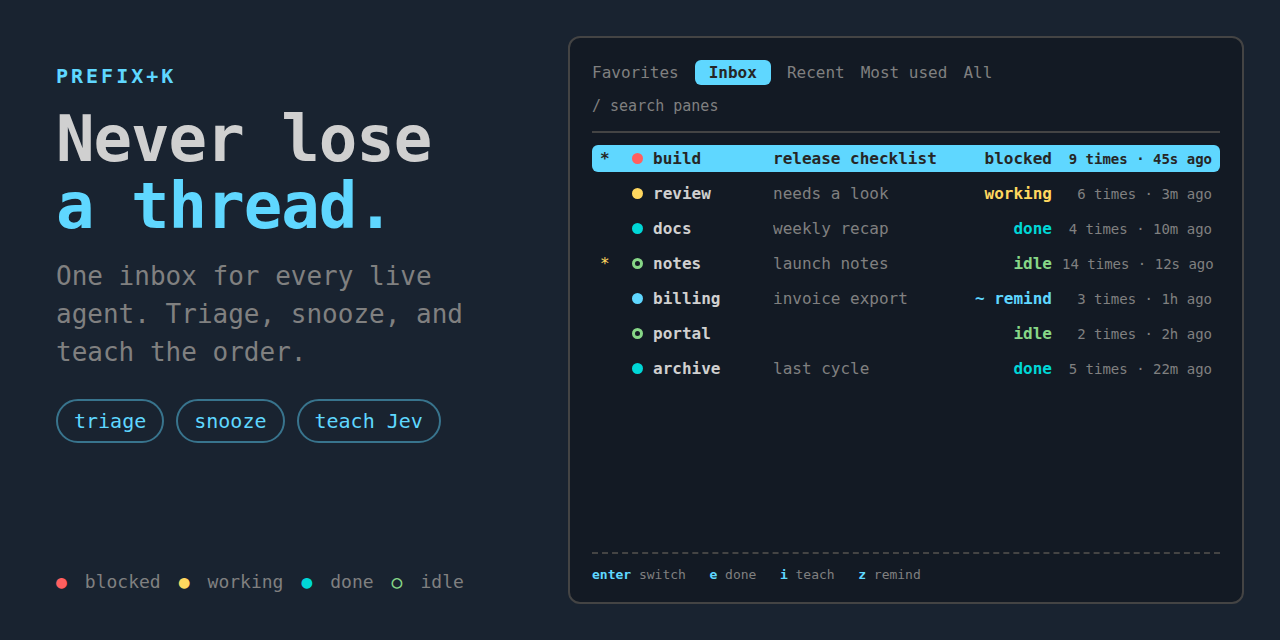
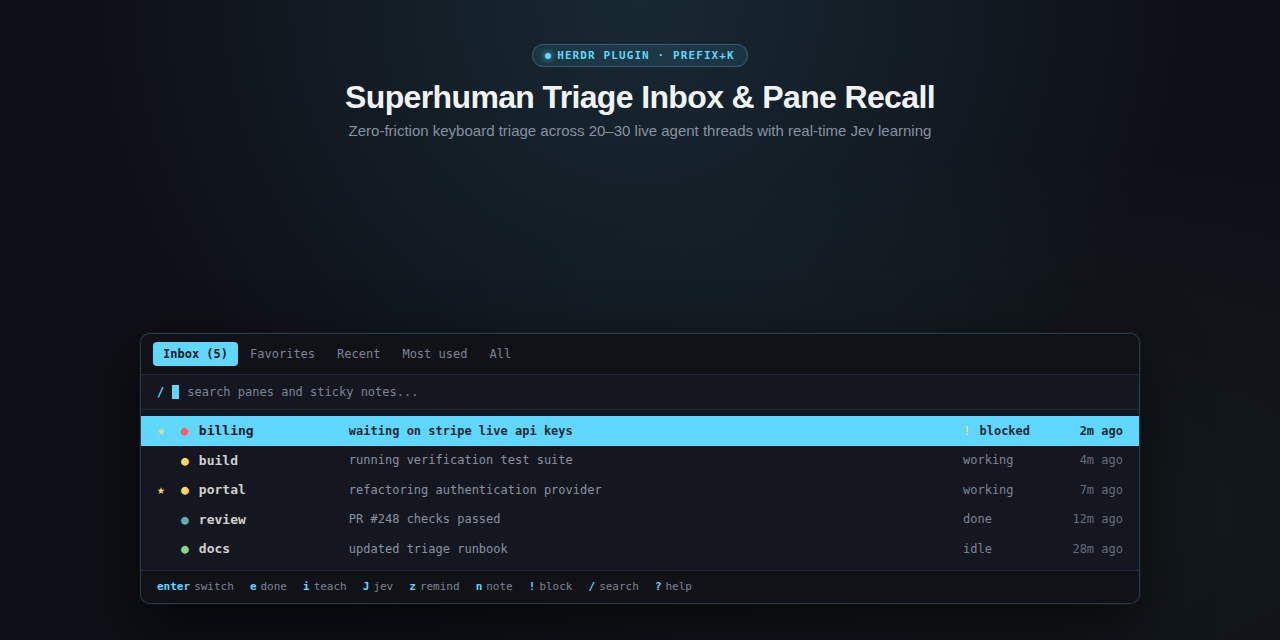
feat: show 'J' in page footer and ensure all shortcuts are listed and searchable in '?'

diff --git a/.showcase/html/hero.html b/.showcase/html/hero.html
@@ -270,10 +270,12 @@ body {
     <div><span class="hint-key">enter</span><span class="hint-desc">switch</span></div>
     <div><span class="hint-key">e</span><span class="hint-desc">done</span></div>
     <div><span class="hint-key">i</span><span class="hint-desc">teach</span></div>
+    <div><span class="hint-key">J</span><span class="hint-desc">jev</span></div>
     <div><span class="hint-key">z</span><span class="hint-desc">remind</span></div>
     <div><span class="hint-key">n</span><span class="hint-desc">note</span></div>
     <div><span class="hint-key">!</span><span class="hint-desc">block</span></div>
     <div><span class="hint-key">/</span><span class="hint-desc">search</span></div>
+    <div><span class="hint-key">?</span><span class="hint-desc">help</span></div>
   </div>
 </div>
 

diff --git a/.showcase/html/panel-inbox.html b/.showcase/html/panel-inbox.html
@@ -165,10 +165,12 @@ body {
   <div><span class="hint-key">enter</span><span class="hint-desc">switch</span></div>
   <div><span class="hint-key">e</span><span class="hint-desc">done</span></div>
   <div><span class="hint-key">i</span><span class="hint-desc">teach</span></div>
+  <div><span class="hint-key">J</span><span class="hint-desc">jev</span></div>
   <div><span class="hint-key">z</span><span class="hint-desc">remind</span></div>
   <div><span class="hint-key">n</span><span class="hint-desc">note</span></div>
   <div><span class="hint-key">!</span><span class="hint-desc">block</span></div>
   <div><span class="hint-key">/</span><span class="hint-desc">search</span></div>
+  <div><span class="hint-key">?</span><span class="hint-desc">help</span></div>
 </div>
 
 </body>

diff --git a/main.go b/main.go
@@ -1190,32 +1190,35 @@ type helpEntry struct {
 
 func allHelpEntries() []helpEntry {
 	return []helpEntry{
-		{"j / k / arrows", "move one row, or N rows with a count"},
-		{"g / G", "first row / last row"},
+		{"enter", "focus / switch to selected pane directly"},
+		{"j / k / arrows", "move one row, or N rows with a count (e.g. 3j)"},
+		{"g / G", "jump to first / last row"},
+		{"ctrl-d / ctrl-u", "scroll half-page down / up"},
 		{"e", "mark done. Leaves current list. u undoes"},
+		{"u", "undo the last e, returning thread to queue"},
 		{"i", "teach Jev on selected thread with visual preference"},
-		{"z", "snooze with typed time (3h, 2w, tomorrow, clear)"},
-		{"n", "sticky note, edited with vim keys"},
-		{"!", "toggle manual blocked override"},
-		{"m", "mark or unmark favorite (*)"},
+		{"J", "Jev dashboard: inspect and delete learned weights, see preview"},
+		{"z", "snooze with typed time (3h, 2w, tomorrow, clear) and return rules"},
+		{"n", "sticky note on selected thread, edited with vim keys"},
+		{"!", "toggle manual blocked override on selected thread"},
+		{"m", "mark or unmark favorite star (*)"},
 		{"b w i d a", "filter status: blocked, working, idle, done, all"},
-		{"/", "search, edited with vim keys"},
-		{"h / l", "switch tabs"},
+		{"/", "search tab names and sticky notes, with vim editing"},
+		{"h / l / arrows", "switch tabs (Inbox, Favorites, Recent, Most used, All)"},
+		{"s", "on All and Favorites: cycle sort order"},
 		{"t c / t r / t x", "create, revise, or delete a custom tab"},
-		{"s", "on All and Favorites: cycle sort"},
-		{"J", "inspect and correct Jev learnings"},
-		{"u", "undo the last e"},
-		{"?", "open or close this help"},
+		{"?", "open or close this searchable help overlay"},
 		{"esc", "insert to normal, normal to browse, clears search, closes"},
 		{"ctrl+c", "close from anywhere"},
 		{"jj / esc", "leave insert mode in any text field"},
-		{"w / b / e", "move by word in any text field"},
-		{"0 / $", "start / end of line in any text field"},
-		{"x / r / s", "delete or replace char in any text field"},
-		{"d / c / y", "delete, change, yank with motion in any text field"},
-		{"p / P", "paste after / before in any text field"},
-		{"u / ctrl+r", "undo / redo in any text field"},
-		{".", "repeat last edit in any text field"},
+		{"w / b / e", "move by word forward / backward / end in text field"},
+		{"0 / $", "jump to start / end of line in text field"},
+		{"x / X", "delete character under / before cursor in text field"},
+		{"r / s", "replace character / substitute in text field"},
+		{"d / c / y", "delete, change, yank with motion in text field"},
+		{"p / P", "paste after / before in text field"},
+		{"u / ctrl+r", "undo / redo in text field"},
+		{".", "repeat last edit in text field"},
 	}
 }
 
@@ -2011,9 +2014,9 @@ func renderFrame(rows []row, sel, scrollOffset int, fv vimline.View, status stri
 	if fv.Focused {
 		emit(hintFooter("enter", "jump", "j/k", "move", "esc", "normal", "esc", "browse", "ctrl+c", "close"))
 	} else {
-		emit(hintFooter("enter", "switch", "e", "done", "i", "teach", "z", "remind", "n", "note", "!", "block", "/", "search"))
+		emit(hintFooter("enter", "switch", "e", "done", "i", "teach", "J", "jev", "z", "remind", "n", "note", "!", "block", "/", "search"))
 	}
-	extra := "h/l tabs   m mark   b/w/i/d/a states   t c/r/x tab"
+	extra := "h/l tabs   m mark   u undo   b/w/i/d/a states   t c/r/x tab   ? help"
 	if len(names) > 0 && (names[active] == "All" || names[active] == "Favorites") {
 		extra += "   s sort"
 	}

diff --git a/viewport_test.go b/viewport_test.go
@@ -214,3 +214,52 @@ func TestInboxRetainsActivePaneAcrossJumps(t *testing.T) {
 		}
 	}
 }
+
+func TestHelpEntriesSearchableAndJInFooter(t *testing.T) {
+	all := allHelpEntries()
+	if len(all) < 25 {
+		t.Fatalf("expected at least 25 help entries, got %d", len(all))
+	}
+
+	// Verify key shortcuts are searchable
+	testQueries := []struct {
+		query   string
+		wantKey string
+	}{
+		{"J", "J"},
+		{"jev", "J"},
+		{"teach", "i"},
+		{"enter", "enter"},
+		{"ctrl-d", "ctrl-d / ctrl-u"},
+		{"snooze", "z"},
+		{"note", "n"},
+		{"undo", "u"},
+		{"filter", "b w i d a"},
+	}
+
+	for _, tc := range testQueries {
+		matches := filterHelpEntries(all, tc.query)
+		found := false
+		for _, m := range matches {
+			if strings.Contains(m.key, tc.wantKey) {
+				found = true
+				break
+			}
+		}
+		if !found {
+			t.Fatalf("query %q did not match expected key %q in help entries", tc.query, tc.wantKey)
+		}
+	}
+
+	// Verify that 'J' is explicitly shown on the page footer in renderFrame
+	rows := []row{{PaneID: "p1", Label: "build", Status: "working"}}
+	frame := renderFrame(rows, 0, 0, vimline.View{Label: "/"}, "", 100, 16, []string{"Inbox"}, 0, "both", "")
+	plain := stripANSI(frame)
+
+	if !strings.Contains(plain, "J jev") {
+		t.Fatalf("expected 'J jev' to be shown in the page footer:\n%s", plain)
+	}
+	if !strings.Contains(plain, "? help") {
+		t.Fatalf("expected '? help' to be shown in the page footer:\n%s", plain)
+	}
+}
